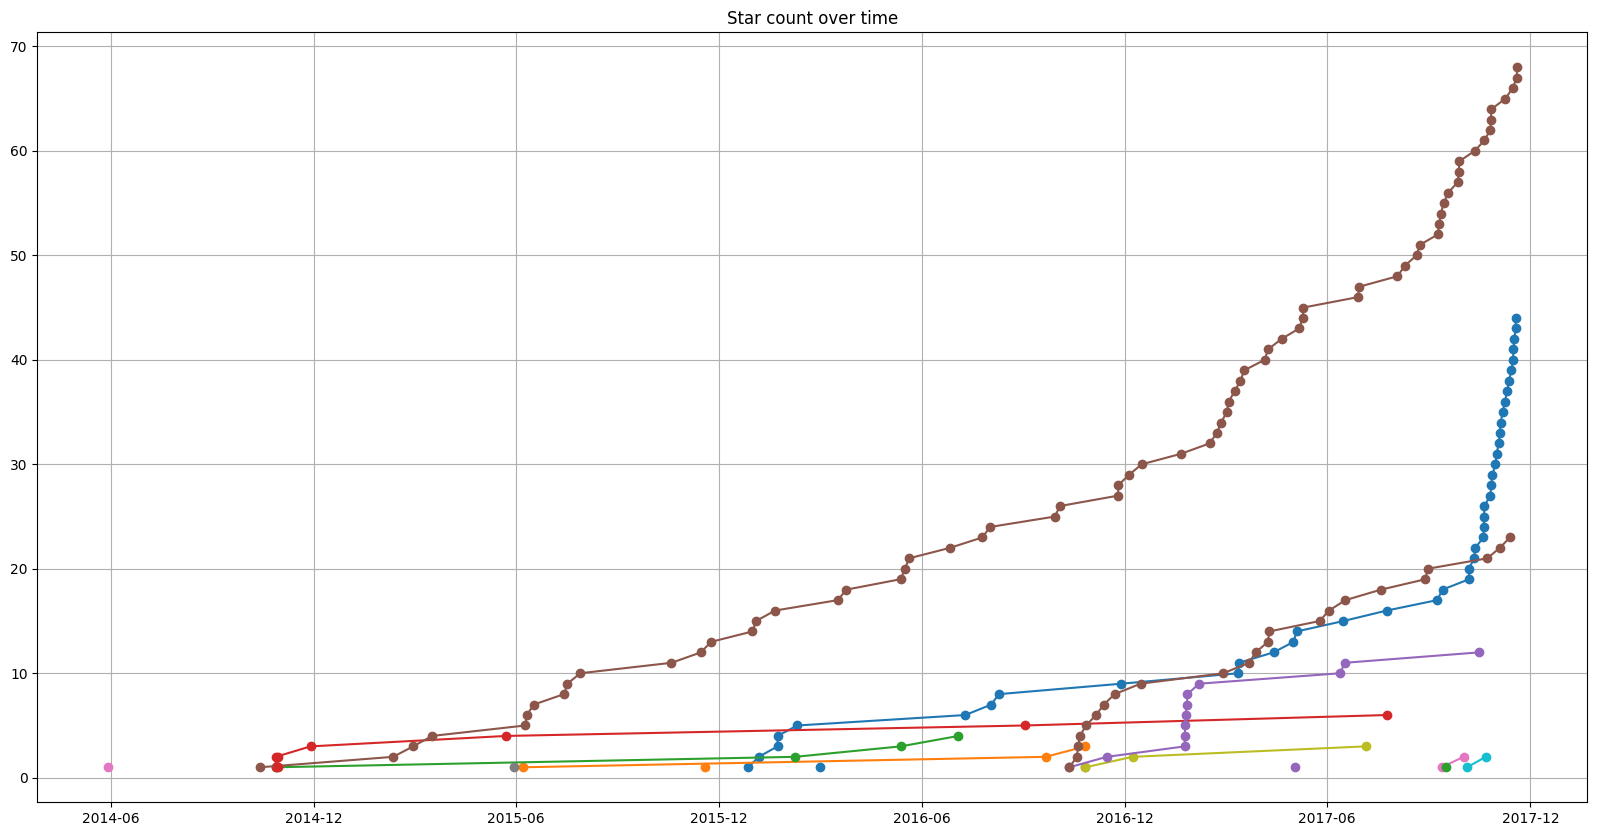
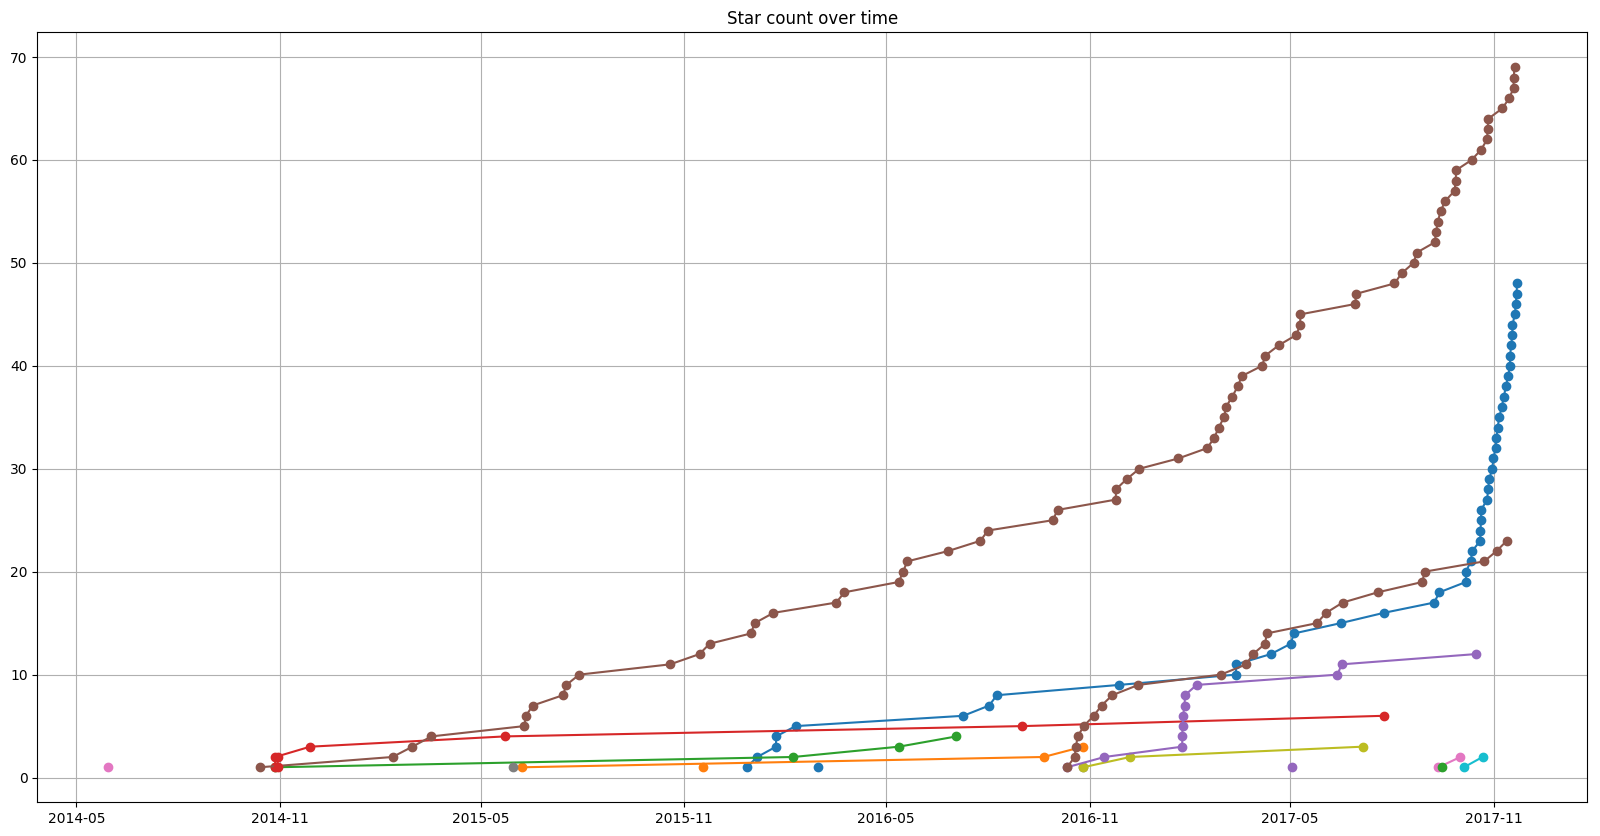
update

diff --git a/README.md b/README.md
@@ -9,13 +9,13 @@
 
    An OpenGL CFFI (and ctypes) binding for Python
 
-   Updated on 2017-11-18
+   Updated on 2017-11-19
 
 * [PyDVI](https://github.com/FabriceSalvaire/PyDVI) 4 :star:</br>
 
    PyDvi is a Python library to read and process DVI (DeVice Independent) files, the native output of LaTeX. The library provides a DVI machine as a base class which can be extended by the user and plugged to a TeX daemon in order to render contents on-the-fly. Also the source code provides a DVI viewer featuring an hardware accelerated rendering on GPU.
 
-   Updated on 2017-11-18
+   Updated on 2017-11-19
 
 * [pyglfw-cffi](https://github.com/FabriceSalvaire/pyglfw-cffi) 2 :star:</br>
 
@@ -37,17 +37,17 @@
 
 ## Python Tools for Developers
 
-* [CodeReview](https://github.com/FabriceSalvaire/CodeReview) 44 :star:</br>
+* [CodeReview](https://github.com/FabriceSalvaire/CodeReview) 48 :star:</br>
 
    CodeReview is a Git GUI tool to perform code review (Diff Viewer) written in Python3 and Qt5.
 
-   Updated on 2017-11-18
+   Updated on 2017-11-21
 
 * [github-map](https://github.com/FabriceSalvaire/github-map)
 
-   A summary of my projects on Github
+   A summary of my projects on Github (using API and Python)
 
-   Updated on 2017-11-10
+   Updated on 2017-11-19
 
 * [python-memo](https://github.com/FabriceSalvaire/python-memo)
 
@@ -83,9 +83,9 @@
 
 * [pygments-lexer](https://github.com/FabriceSalvaire/pygments-lexer)
 
-   Additional Pygments Lexer
+   Additional Pygments Lexer (m4, m4pic, SPICE)
 
-   Updated on 2017-02-18
+   Updated on 2017-11-19
 
 * [sphinx-getthecode](https://github.com/FabriceSalvaire/sphinx-getthecode)
 
@@ -127,6 +127,12 @@
 
    Updated on 2017-07-05
 
+* [cmsplugin-mathjax](https://github.com/FabriceSalvaire/cmsplugin-mathjax) 1 :star:</br>
+
+   MathJax Plugin for Django CMS 
+
+   Updated on 2016-10-26
+
 * [cmsplugin-getthecode](https://github.com/FabriceSalvaire/cmsplugin-getthecode)
 
    Django CMS plugin to show source code
@@ -139,6 +145,18 @@
 
    Updated on 2017-02-23
 
+* [cmsplugin-rst](https://github.com/FabriceSalvaire/cmsplugin-rst)
+
+   Restructured Text (RST) Plugin for Django CMS
+
+   Updated on 2017-11-21
+
+* [django-cms-boilerplate](https://github.com/FabriceSalvaire/django-cms-boilerplate)
+
+   A Django CMS Boilerplate forked from aldryn-boilerplate-bootstrap3.
+
+   Updated on 2017-11-21
+
 ## Python Web Tools
 
 * [c2c-api-client](https://github.com/FabriceSalvaire/c2c-api-client)
@@ -149,23 +167,23 @@
 
 ## Python for Electronic
 
-* [PySpice](https://github.com/FabriceSalvaire/PySpice) 68 :star:</br>
+* [PySpice](https://github.com/FabriceSalvaire/PySpice) 69 :star:</br>
 
    Simulate electronic circuit using Python and the Ngspice / Xyce simulators
 
-   Updated on 2017-11-18
+   Updated on 2017-11-19
 
 * [PyResistorColorCode](https://github.com/FabriceSalvaire/PyResistorColorCode) 1 :star:</br>
 
    PyResistorColorCode is a Python module that provides some tools to manage IEC 60062 marking codes for resistors.
 
-   Updated on 2017-05-02
+   Updated on 2017-11-21
 
 * [PyCpuSimulator](https://github.com/FabriceSalvaire/PyCpuSimulator)
 
    CPU Simulator written in Python
 
-   Updated on 2017-06-04
+   Updated on 2017-11-20
 
 ## Python for Mechanic
 
@@ -181,13 +199,13 @@
 
    Unofficial repository for http://www.mamba-image.org
 
-   Updated on 2015-01-27
+   Updated on 2017-11-21
 
 * [simple-morpho-math](https://github.com/FabriceSalvaire/simple-morpho-math)
 
    A simple mathematical morphology library
 
-   Updated on 2017-02-18
+   Updated on 2017-11-21
 
 ## Python for Pattern Drafting
 
@@ -195,7 +213,7 @@
 
    Python implementation of the Valentina Pattern Making software
 
-   Updated on 2017-10-01
+   Updated on 2017-11-21
 
 ## Python for Music
 
@@ -219,19 +237,27 @@
 
    Updated on 2015-09-27
 
+## Python for bioinformatics
+
+* [swalign](https://github.com/FabriceSalvaire/swalign)
+
+   Smith-Waterman local aligner
+
+   Updated on 2017-11-21
+
 ## Python Applications (PyQt5)
 
 * [LaptopControlPanel](https://github.com/FabriceSalvaire/LaptopControlPanel) 3 :star:</br>
 
    LaptopControlPanel is a Python module that provides a Graphical Control Panel for Lenovo Thinkpad Laptop and a console tool to monitor and manage the battery.
 
-   Updated on 2016-10-25
+   Updated on 2017-11-21
 
 * [Biblio](https://github.com/FabriceSalvaire/Biblio)
 
-   An experimental PDF document manager.
+   An experimental PDF document manager. 
 
-   Updated on 2016-01-20
+   Updated on 2017-11-21
 
 * [elbrea](https://github.com/FabriceSalvaire/elbrea)
 
@@ -243,13 +269,13 @@
 
    PyQt applet to monitor an OVH Virtual Private Server
 
-   Updated on 2014-11-28
+   Updated on 2017-11-21
 
 * [pygeoportail](https://github.com/FabriceSalvaire/pygeoportail)
 
    Géoportail Python client
 
-   Updated on 2015-11-21
+   Updated on 2017-11-21
 
 ## Python Outdated
 
@@ -257,7 +283,7 @@
 
    PyLibTiff is a Python binding to the TIFF reference library libtiff.
 
-   Updated on 2014-01-18
+   Updated on 2017-11-21
 
 ## Web
 
@@ -289,6 +315,12 @@
 
    Updated on 2017-09-15
 
+* [mupdf-v1.3](https://github.com/FabriceSalvaire/mupdf-v1.3)
+
+   CMake build with a SWIG Python Wrapper
+
+   Updated on 2017-11-21
+
 ## Tools
 
 * [tex-calendar](https://github.com/FabriceSalvaire/tex-calendar)
@@ -309,7 +341,7 @@
 
    None
 
-   Updated on 2017-09-18
+   Updated on 2017-11-21
 
 * [copr-xyce](https://github.com/FabriceSalvaire/copr-xyce)
 
@@ -318,6 +350,12 @@
    Updated on 2017-09-18
 
 ## Talks
+
+* [euroscipy_proceedings](https://github.com/FabriceSalvaire/euroscipy_proceedings)
+
+   Tools used to generate the SciPy conference proceedings
+
+   Updated on 2017-11-21
 
 * [pyconfr-2014](https://github.com/FabriceSalvaire/pyconfr-2014)
 
@@ -329,7 +367,7 @@
 
    PyParis 2017 Talk — Circuit Simulation using Python 
 
-   Updated on 2017-06-04
+   Updated on 2017-11-21
 
 ## Outdated
 
@@ -337,15 +375,9 @@
 
    libfprint v0.5.0 with a wrapper driver that uses the proprietary libbsapi from Authentec.
 
-   Updated on 2016-03-01
+   Updated on 2017-11-21
 
 ## Contributed
-
-* [cmsplugin-mathjax](https://github.com/FabriceSalvaire/cmsplugin-mathjax) 1 :star:</br>
-
-   MathJax Plugin for Django CMS 
-
-   Updated on 2016-10-26
 
 * [aldryn-newsblog](https://github.com/FabriceSalvaire/aldryn-newsblog)
 
@@ -359,23 +391,11 @@
 
    Updated on 2016-01-11
 
-* [cmsplugin-rst](https://github.com/FabriceSalvaire/cmsplugin-rst)
-
-   Restructured Text (RST) Plugin for Django CMS
-
-   Updated on 2016-12-04
-
 * [cprofilev](https://github.com/FabriceSalvaire/cprofilev)
 
    An easier way to use cProfile
 
    Updated on 2015-04-18
-
-* [django-cms-boilerplate](https://github.com/FabriceSalvaire/django-cms-boilerplate)
-
-   A Django CMS Boilerplate forked from aldryn-boilerplate-bootstrap3.
-
-   Updated on 2016-10-24
 
 * [django-jinja](https://github.com/FabriceSalvaire/django-jinja)
 
@@ -401,12 +421,6 @@
 
    Updated on 2017-01-22
 
-* [euroscipy_proceedings](https://github.com/FabriceSalvaire/euroscipy_proceedings)
-
-   Tools used to generate the SciPy conference proceedings
-
-   Updated on 2014-02-19
-
 * [git-scm.com](https://github.com/FabriceSalvaire/git-scm.com)
 
    The git-scm.com website. Note that this repository is only for the website; issues with git itself should go to https://git-scm.com/community.
@@ -418,12 +432,6 @@
    A simple shared budget manager web application
 
    Updated on 2016-10-19
-
-* [mupdf-v1.3](https://github.com/FabriceSalvaire/mupdf-v1.3)
-
-   CMake build with a SWIG Python Wrapper
-
-   Updated on 2016-02-02
 
 * [normalize.css](https://github.com/FabriceSalvaire/normalize.css)
 
@@ -441,22 +449,48 @@
 
    simavr is a lean, mean and hackable AVR simulator for linux & OSX
 
-   Updated on 2017-05-20
+   Updated on 2017-11-21
 
 * [sphinx-sitemap](https://github.com/FabriceSalvaire/sphinx-sitemap)
 
    Sphinx extension to silently generate a sitemap for HTML builds
 
-   Updated on 2017-11-18
-
-* [swalign](https://github.com/FabriceSalvaire/swalign)
-
-   Smith-Waterman local aligner
-
-   Updated on 2015-01-15
+   Updated on 2017-11-21
 
 * [vpo2](https://github.com/FabriceSalvaire/vpo2)
 
    None
 
    Updated on 2017-09-15
+
+## Others
+
+* [Biblio-old](https://github.com/FabriceSalvaire/Biblio-old)
+
+   None
+
+   Updated on 2017-11-21
+
+* [python-project-template](https://github.com/FabriceSalvaire/python-project-template)
+
+   Python Project Template with useful module and scripts
+
+   Updated on 2014-04-08
+
+* [qt5-bugs](https://github.com/FabriceSalvaire/qt5-bugs)
+
+   Contains bug cases for Qt 5.7
+
+   Updated on 2016-04-22
+
+* [qt5-snippets](https://github.com/FabriceSalvaire/qt5-snippets)
+
+   Qt5 Code Snippets
+
+   Updated on 2016-06-22
+
+* [test-redmine](https://github.com/FabriceSalvaire/test-redmine)
+
+   Just for test!
+
+   Updated on 2014-11-18
